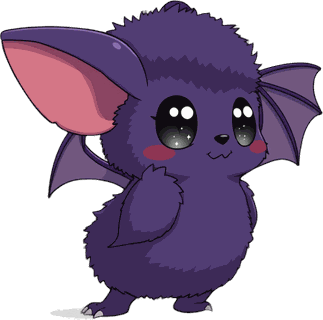
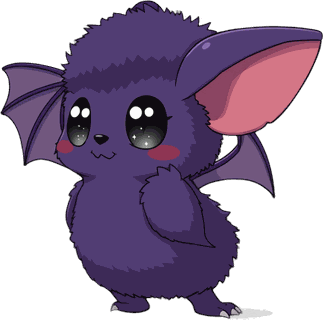
共闘(ボス戦)にも背景を反映、題字の滲みとヨルコウモリの向きを直す (v0.113.0)
■ ボス面だけ背景が変わらなかった

共闘は src/coop.ts という別画面で、背景を図形で描いていた。
backgroundArt を一度も呼んでいないので、15枚を登録しても関係が無かった。
ボス戦は共闘専用(ソロでは挑めない)なので、ボス面だけ従来の絵のままだった。

  ・背景の層(bgLayer)を足し、部屋の状態でステージが届いた時点で敷き替える
    buildScene の時点ではステージが分からない(room.state.stage で届く)
  ・図形の背景は素材が無い環境のための下地として残す

★ 「いま敷いてある段階」を数値で持ってはいけない。
  初期値0を backgroundKeyForStage に渡すと B1 が返る(0 % 5 === 0 のため)。
  ステージ5のボス戦で「もう敷いてある」と誤判定して敷き替えを飛ばす。
  名前(S1/B1…)の文字列で持つこと。

実画面でボス5(B1)・ボス20(B4)・ボス50(B10)が切り替わることを確認済み。

■ 題字の上半分が背景に溶けていた

原因は色ではなく青い光(グロー)の掛けすぎだった。
滲み3.2・濃さ0.75で2枚重ねていたため、光が字の輪郭そのものを埋め、
明るい色の上半分だけ「半透明のよう」に見えていた。

  ・光を 滲み2.0・濃さ0.42 の1枚に減らす
  ・縁取りを 7 → 9 に太くする
  ・上端の色を #f2fbff → #cfeaff へ1段落とす

色を落としただけでは直らず、光を弱めて初めて輪郭が戻った。

■ ヨルコウモリ(bird)の待機だけ右を向いていた

敵は右に立って左のプレイヤーへ向かうので左向きが正しい。
詠唱・放出・被弾は左向きで、待機(bird.png)だけ逆だったので反転した。

■ 検証の道具で踏んだ罠(コメントに残した)

  ・ブラウザで評価する文字列に TypeScript の型構文(as HTMLElement)を書くと
    構文エラーになり、無言で失敗する
  ・テンプレート文字列の中の \s は s に化ける。/\s+/ が /s+/ になり
    「5 👑」を分割できなかった。正規表現をやめて split(' ') にした

diff --git a/test/boss_bg_shot.ts b/test/boss_bg_shot.ts
@@ -1,9 +1,9 @@
 // ステージごとの戦闘背景が実画面でどう見えるかを撮る(目視確認用)。
 //
-// 各段階の代表ステージへ入って1枚ずつ撮る。
+// ボス面(共闘専用)の背景を撮る。部屋を作って1人で始める。
 // 背景だけ並べても分からない「キャラと敵が読めるか」を確かめる。
 //
-//   npx tsx test/bg_shot.ts
+//   npx tsx test/boss_bg_shot.ts
 
 import { spawn } from 'node:child_process';
 import { mkdtempSync, rmSync, writeFileSync, mkdirSync } from 'node:fs';
@@ -14,10 +14,10 @@ const BASE = process.env.MADOKEN_ENDPOINT ?? 'http://127.0.0.1:2567';
 const HTTP = BASE.replace(/^ws/, 'http');
 const CHROME = process.env.CHROME_PATH
   ?? 'C:\\Program Files\\Google\\Chrome\\Application\\chrome.exe';
-const PORT = 9471;
+const PORT = 9473;
 const OUT = join(process.cwd(), 'tools', 'shots');
 
-const NAME = `bg${Math.random().toString(36).slice(2, 6)}`;
+const NAME = `bb${Math.random().toString(36).slice(2, 6)}`;
 const sleep = (ms: number) => new Promise(r => setTimeout(r, ms));
 
 class Cdp {
@@ -89,17 +89,17 @@ function seedSave() {
 }
 
 
-// 撮る代表ステージ。段階の切り替わりが分かるように選ぶ。
+
+// 撮るボスステージ。段階の切り替わりが分かるように選ぶ。
 const TARGETS: [number, string][] = [
-  [1, 'S1_ステージ1'], [5, 'B1_ボス5'], [11, 'S2_ステージ11'], [20, 'B4_ボス20'],
-  [21, 'S3_ステージ21'], [31, 'S4_ステージ31'], [41, 'S5_ステージ41'], [50, 'B10_ボス50'],
+  [5, 'B1_ボス5'], [20, 'B4_ボス20'], [50, 'B10_ボス50'],
 ];
 
 async function main(): Promise<void> {
-  console.log('=== ステージごとの戦闘背景を撮る ===');
+  console.log('=== ボス面(共闘)の背景を撮る ===');
   mkdirSync(OUT, { recursive: true });
 
-  const profile = mkdtempSync(join(tmpdir(), 'madoken-bg-'));
+  const profile = mkdtempSync(join(tmpdir(), 'madoken-bb-'));
   const chrome = spawn(CHROME, [
     '--headless=new', `--remote-debugging-port=${PORT}`,
     `--user-data-dir=${profile}`, '--no-first-run', '--no-default-browser-check',
@@ -134,43 +134,47 @@ async function main(): Promise<void> {
       await sleep(250);
     }
     await sleep(4000);
-    for (const l of cdp.logs.filter(l => l.includes('[素材]'))) console.log(`  ${l}`);
 
     for (const [stage, label] of TARGETS) {
       await cdp.evaluate('document.querySelector("#tab-battle").click()');
       await sleep(900);
-      const picked = await cdp.evaluate<boolean>(`
+      const diag = await cdp.evaluate<string>(`
         (() => {
           const bs = [...document.querySelectorAll('#stage-select button')];
-          // ボス面のボタンは「5 👑」のように王冠が付く。数字だけの一致では拾えない。
+          if (bs.length === 0) return 'ボタンが1つも無い';
           const b = bs.find(x => (x.textContent || '').trim().split(' ')[0] === '${stage}');
-          if (!b) return false;
-          b.click(); return true;
+          if (!b) return '数=' + bs.length + ' 見本=' + JSON.stringify(bs.slice(3,6).map(y=>y.textContent));
+          b.click(); return 'OK';
         })()
       `);
+      const picked = diag === 'OK';
+      if (!picked) console.log('  診断: ' + diag);
       if (!picked) { console.log(`  ステージ${stage} を選べない(飛ばす)`); continue; }
-      await sleep(400);
-      await cdp.evaluate("document.querySelector('#btn-solo-go').click()");
-      await sleep(2600);
-      await cdp.shot(`bg_${label}`);
+      await sleep(500);
+      // ボス戦は共闘部屋から。1人でも始められる。
+      await cdp.evaluate("document.querySelector('#btn-create-room').click()");
+      await sleep(3000);
+      // 部屋の「開始」を押す
+      await cdp.evaluate(`
+        (() => {
+          const b = [...document.querySelectorAll('button')]
+            .find(x => /開始|はじめ|スタート|出撃/.test(x.textContent || '')
+                       && !(x as HTMLButtonElement).disabled);
+          if (b) (b as HTMLElement).click();
+        })()
+      `);
+      await sleep(6000);      // 3→2→1 の合図を待つ
+      await cdp.shot(`boss_${label}`);
       console.log(`  撮った: ${label}`);
-      // 逃げて次のステージへ
+      // 部屋を出て次へ
       await cdp.evaluate(`
         (() => {
           const b = [...document.querySelectorAll('button')]
-            .find(x => /逃|撤退|やめ/.test(x.textContent || ''));
+            .find(x => /退出|抜け|やめ|閉じ|戻/.test(x.textContent || ''));
           if (b) (b as HTMLElement).click();
         })()
       `);
-      await sleep(1500);
-      await cdp.evaluate(`
-        (() => {
-          const b = [...document.querySelectorAll('button')]
-            .find(x => /はい|OK|確定|閉じ/.test(x.textContent || ''));
-          if (b) (b as HTMLElement).click();
-        })()
-      `);
-      await sleep(1200);
+      await sleep(2500);
     }
     console.log('\n出力先: ' + OUT);
   } finally {

diff --git a/src/coop.ts b/src/coop.ts
@@ -3,8 +3,8 @@
 import { Application, Container, Graphics, Sprite, Text } from 'pixi.js';
 import type { Room } from 'colyseus.js';
 import {
-  affinitySymbol, ALL_ENEMIES, bossBgmFor, ELEMENTS, ELEMENT_ORDER, enemyTopY,
-  poseName, SPRITE_SCALE,
+  affinitySymbol, ALL_ENEMIES, backgroundKeyForStage, bossBgmFor, ELEMENTS,
+  ELEMENT_ORDER, enemyTopY, poseName, SPRITE_SCALE,
 } from '../shared/data';
 import type { AffinityGrade, EnemyDef } from '../shared/data';
 import {
@@ -14,6 +14,7 @@ import {
   COUNT_STYLE, makeEnemySprite, makePlayerSprite, makeProjectileGfx,
   setEnemySpritePose, setPlayerSpritePose, START_LABEL,
 } from './battle';
+import { backgroundArt } from './artwork';
 import { clampCharId } from '../shared/characters';
 import { spellCooldown, spellDisplayName } from '../shared/spellcraft';
 import { grantBossReward, markGained, showToast } from './lab';
@@ -56,6 +57,9 @@ export class CoopView {
   private uiLayer!: Container;
   private barsG!: Graphics;
   private stageText!: Text;
+  // 背景の絵を敷く層。ステージが分かってから中身を入れる。
+  private bgLayer!: Container;
+  private bgKey = '';       // いま敷いてある背景の名前(空=まだ敷いていない)
   // 3→2→1→開戦
   private countText!: Text;
   private prevCount = -99;
@@ -172,6 +176,11 @@ export class CoopView {
     app.stage.addChild(root);
     this.root = root;
 
+    // 背景。素材があればステージ段階ごとの絵を敷く。
+    //
+    // ★ ここではまだステージが分からない。共闘のステージは部屋の状態
+    //   (room.state.stage)で届くので、届いた時点で applyBackground() が
+    //   敷き直す。図形の背景は素材が無い環境のための下地として残す。
     const bg = new Graphics();
     bg.rect(0, 0, W, H).fill(0x0b0b18);
     bg.circle(780, 90, 42).fill({ color: 0xddddff, alpha: 0.85 });
@@ -184,6 +193,9 @@ export class CoopView {
     bg.rect(0, GROUND_Y, W, H - GROUND_Y).fill(0x1c1c30);
     bg.rect(0, GROUND_Y, W, 4).fill(0x33335a);
     root.addChild(bg);
+    this.bgLayer = new Container();
+    root.addChild(this.bgLayer);
+    this.bgKey = '';
 
     this.entityLayer = new Container();
     this.projLayer = new Container();
@@ -225,6 +237,20 @@ export class CoopView {
     this.warnText.position.set(W / 2, H / 2 - 40);
     this.warnText.visible = false;
     this.uiLayer.addChild(this.warnText);
+  }
+
+  // ステージ段階に応じた背景を敷く。同じ段階なら何もしない。
+  private applyBackground(stage: number): void {
+    if (!Number.isFinite(stage) || stage <= 0) return;
+    // ★ 「いま敷いてある段階」を数値で持ってはいけない。
+    //   初期値0を backgroundKeyForStage に渡すと B1 が返る(0 % 5 === 0 のため)。
+    //   ステージ5のボス戦で「もう敷いてある」と誤判定し、敷き替えを飛ばす。
+    const key = backgroundKeyForStage(stage);
+    if (key === this.bgKey) return;
+    this.bgKey = key;
+    this.bgLayer.removeChildren().forEach(c => c.destroy());
+    const art = backgroundArt(W, H, stage);
+    if (art) this.bgLayer.addChild(art);
   }
 
   private buildBar(): void {
@@ -720,6 +746,11 @@ export class CoopView {
       this.cds = this.cds.map(() => 0);
       this.prevCastingIdx = -1;
     }
+    // 背景も段階ごとに敷き替える。
+    // ★ buildScene の時点ではステージが分からない(部屋の状態で届く)ので、
+    //   ここで敷く。共闘はボス戦の唯一の入口なので、ここを抜かすと
+    //   ボス面だけ背景が変わらないままになる(2026-08-11に実際そうなった)。
+    this.applyBackground(stage);
 
     // 部屋は終わっているのに決着の知らせが来ない = 留守の間に終わっていた。
     // 少しだけ待つのは、知らせが状態の更新より僅かに遅れて届くことがあるため。

diff --git a/shared/version.ts b/shared/version.ts
@@ -4,6 +4,6 @@
 // BUILD_DATE は npm run build のたびに tools/stamp-version.mjs が
 // 実際の時刻(日本時間)で書き換えるので、手で触らないこと。
 
-export const VERSION = '0.112.0';
-export const BUILD_DATE = '2026-08-11 08:09';
+export const VERSION = '0.113.0';
+export const BUILD_DATE = '2026-08-11 08:41';
 export const COPYRIGHT = 'Copyright © 2026 YuriPapa';

diff --git a/tools/title/build_title.py b/tools/title/build_title.py
@@ -115,9 +115,14 @@ def build(ink: bool = False) -> None:
         edge_main, edge_sub = '#0a2350', '#5a4408'
         glow_open, glow_close = '<g>', '</g>'
     else:
-        g_top, g_mid, g_low, g_bot = '#f2fbff', '#a9e2ff', '#4fa8f5', '#2b62c8'
+        # ★ 上端をほぼ白(#f2fbff)にしてはいけない(2026-08-11)。
+        #   暗い画面では、白い字とその周りの青い光が背景と同じ明るさになり、
+        #   字の上半分だけ輪郭が消えて「半透明のよう」に見えた。
+        #   下半分(濃い青)は輪郭が立っていたので、上だけ弱く見える。
+        #   上端を1段落とし、縁取りを濃くして背景から切り離す。
+        g_top, g_mid, g_low, g_bot = '#cfeaff', '#8ccbff', '#3f95ee', '#2258bd'
         sub_a, sub_b, sub_c = '#ffe9b0', '#fff6dc', '#ffd98a'
-        edge_main, edge_sub = '#0d2350', '#3a2a08'
+        edge_main, edge_sub = '#071a3c', '#3a2a08'
         glow_open, glow_close = '<g filter="url(#t-glow)">', '</g>'
 
     svg = f'''<svg xmlns="http://www.w3.org/2000/svg" viewBox="0 0 {w:.1f} {h:.1f}"
@@ -137,13 +142,17 @@ def build(ink: bool = False) -> None:
       <stop offset="0.5" stop-color="{sub_b}"/>
       <stop offset="1"   stop-color="{sub_c}"/>
     </linearGradient>
-    <!-- 青い光。暗い背景から字を浮かせる -->
+    <!-- 青い光。暗い背景から字を浮かせる。
+         ★ 効かせすぎないこと(2026-08-11)。
+           滲み3.2・濃さ0.75で2枚重ねていたら、光が字の輪郭そのものを埋め、
+           上半分(明るい色の側)が背景に溶けて「半透明のよう」に見えた。
+           色を暗くするだけでは直らず、光を弱めて初めて輪郭が立った。
+           光は「字の外側にうっすら」で足り、1枚で十分。 -->
     <filter id="t-glow" x="-25%" y="-40%" width="150%" height="190%">
-      <feGaussianBlur stdDeviation="3.2" result="b"/>
-      <feFlood flood-color="#3f8ef0" flood-opacity="0.75"/>
+      <feGaussianBlur stdDeviation="2.0" result="b"/>
+      <feFlood flood-color="#2f6fc8" flood-opacity="0.42"/>
       <feComposite in2="b" operator="in" result="g"/>
       <feMerge>
-        <feMergeNode in="g"/>
         <feMergeNode in="g"/>
         <feMergeNode in="SourceGraphic"/>
       </feMerge>
@@ -152,7 +161,7 @@ def build(ink: bool = False) -> None:
 
   {glow_open}
     <!-- 縁取りを先に敷いて、明るい背景でも字が潰れないようにする -->
-    <g fill="none" stroke="{edge_main}" stroke-width="7" stroke-linejoin="round">
+    <g fill="none" stroke="{edge_main}" stroke-width="9" stroke-linejoin="round">
       {main_g}
     </g>
     <g fill="url(#t-blue)">
